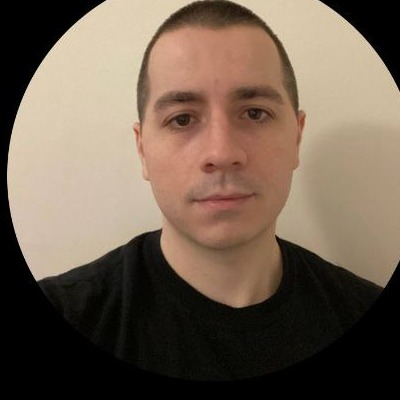
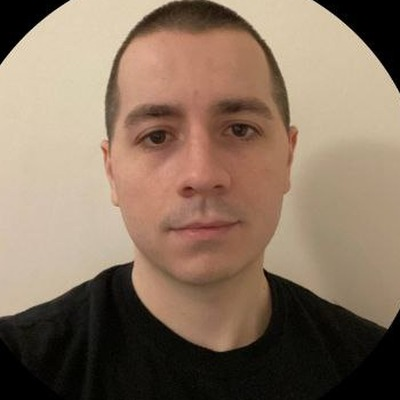
fix: proper circular PNG crop for Kristiyan's photo, no black corners

diff --git a/index.html b/index.html
@@ -397,7 +397,7 @@
     <div class="team-grid">
       <div class="team-card fade-in">
         <div class="team-photo-wrap">
-          <img src="img/kristiyan.jpg" alt="Kristiyan Georgiev" onerror="this.src='https://ui-avatars.com/api/?name=Kristiyan+Georgiev&background=F5A623&color=0A0F2C&size=160'">
+          <img src="img/kristiyan.png" alt="Kristiyan Georgiev" onerror="this.src='https://ui-avatars.com/api/?name=Kristiyan+Georgiev&background=F5A623&color=0A0F2C&size=160'">
         </div>
         <a href="https://www.linkedin.com/in/kristiyan-georgiev-7b6173109/" target="_blank" rel="noopener" class="team-name" style="text-decoration:none;color:inherit;display:flex;align-items:center;justify-content:center;gap:0.5rem">Kristiyan Georgiev <svg width="16" height="16" viewBox="0 0 24 24" fill="#F5A623"><path d="M19 0h-14c-2.761 0-5 2.239-5 5v14c0 2.761 2.239 5 5 5h14c2.762 0 5-2.239 5-5v-14c0-2.761-2.238-5-5-5zm-11 19h-3v-11h3v11zm-1.5-12.268c-.966 0-1.75-.79-1.75-1.764s.784-1.764 1.75-1.764 1.75.79 1.75 1.764-.783 1.764-1.75 1.764zm13.5 12.268h-3v-5.604c0-3.368-4-3.113-4 0v5.604h-3v-11h3v1.765c1.396-2.586 7-2.777 7 2.476v6.759z"/></svg></a>
         <div class="team-title">CEO & Founder</div>
